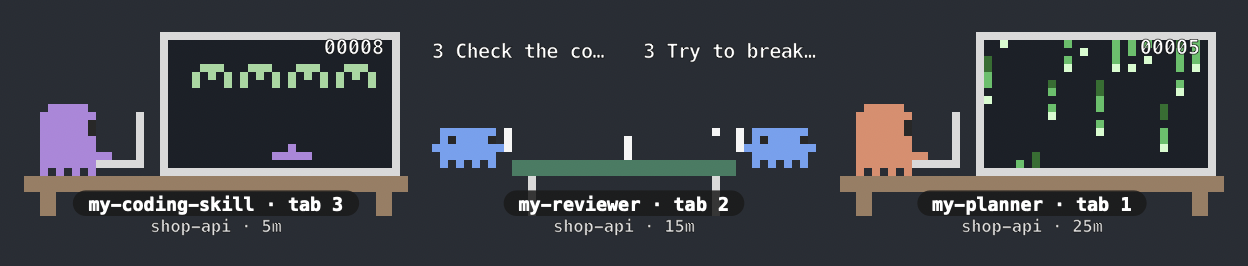
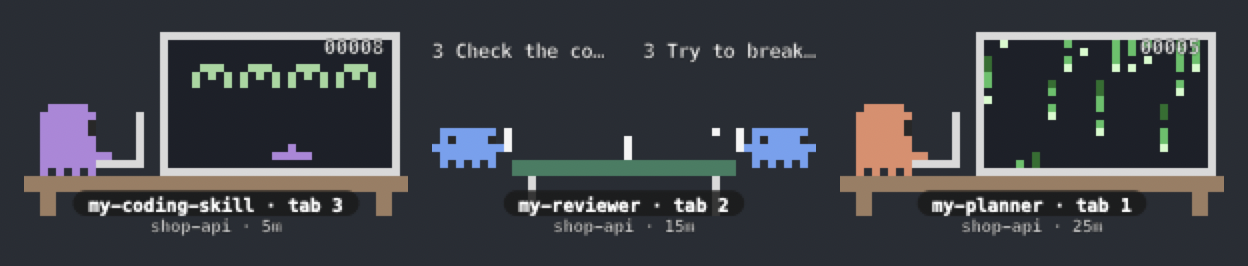
Screenshots: the rabbit joins the agents picture; shoot.sh stops safely and always restores your puppets
shoot.sh checks every Hammerspoon call: one that fails or times out stops the run and says which scene, and a
trap restores the real events file, menu choice and mouse however the run ends. stage.lua kept the mouse's place
in a table each hs -c call threw away, so the pointer stayed on a puppet and its card leaked into the next
picture; it now lives on the Spoon. Pictures refreshed.

diff --git a/README.md b/README.md
@@ -40,7 +40,7 @@ Codex and Cursor show the title each gives the session; Codex's subagents show t
 | ![A bubble with the first sentence of the agent's answer](docs/images/response-coder.png) | **Done.** The bubble says the first sentence of the agent's answer. |
 | ![Three puppets side by side: coding, ping pong and Matrix](docs/images/planner-reviewer-ping-pong-coding.png) | **Several sessions.** One puppet per busy session, each in its own colour and scene. |
 | ![A card above a ping pong puppet: the session title, folder and tab, command, subagents and tool calls](docs/images/hover-card.png) | **Where it is and what it does.** Rest the mouse on a puppet for its card. |
-| ![The Codex owl coding beside a Claude Code puppet whose subagents play ping pong](docs/images/agents.png) | **Claude Code and Codex side by side.** Each agent has its own creature: the owl codes for Codex while Claude's subagents play ping pong. |
+| ![The Codex owl and the Cursor rabbit coding beside a Claude Code puppet whose subagents play ping pong](docs/images/agents.png) | **Three agents side by side.** Each agent has its own creature: the owl codes for Codex, the rabbit for Cursor, while Claude's subagents play ping pong. |
 | ![Three puppets with Done bubbles](docs/images/3-desk-done.png) | **All done.** Each session says so above its own puppet. |
 | ![Three puppets dozing at their desks, monitors off](docs/images/3-desks-sleeping.png) | **Between turns.** Each puppet rests at its desk, monitor off, and dozes off. |
 | ![A single puppet waiting on an empty table](docs/images/big-desk.png) | **Nothing running.** One puppet waits at home. |
